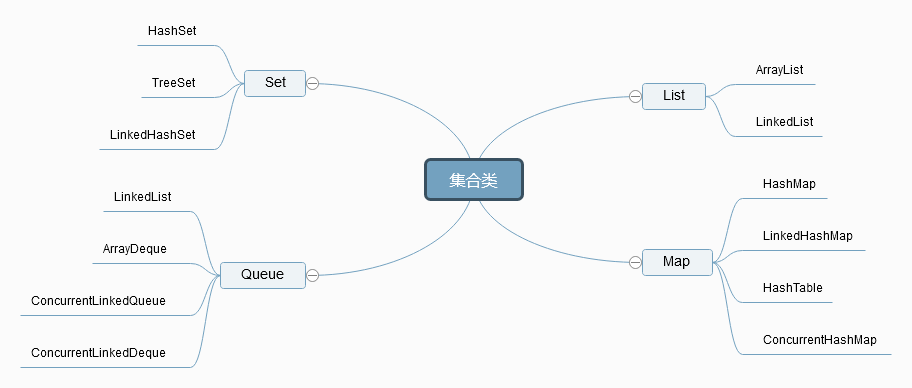
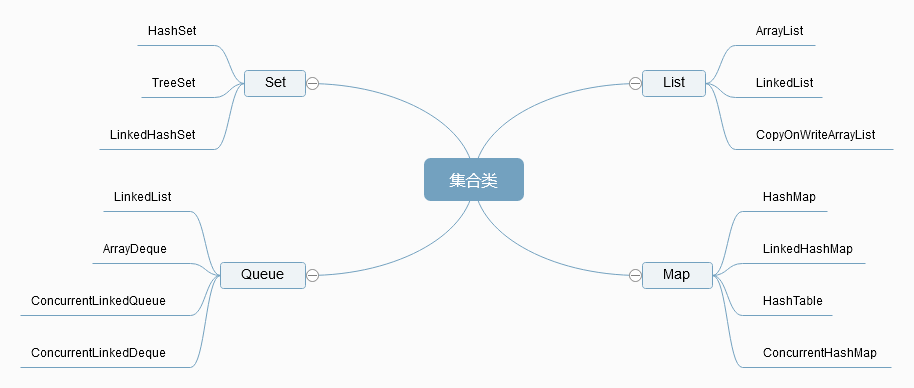
update

diff --git a/Java-Base.md b/Java-Base.md
@@ -128,10 +128,28 @@ AbstractStringBuilder,使用char[] value;存储字符,因此是可变的;
 当然内部类的知识点&特性还有很多,详情查阅Thinking in Java.    
 
 - 集合类  
-![集合类](https://raw.githubusercontent.com/MelloChan/java-interview/master/image/集合类.png)
+![集合类](https://raw.githubusercontent.com/MelloChan/java-interview/master/image/%E9%9B%86%E5%90%88%E7%B1%BB.png)
+
+List:实现该接口的常用类为ArrayList & LinkedList.   
+前者底层结构为(可动态改变大小)数组,默认容量10,扩充时增大到原先的1.5倍.适合频繁取值以及尾部插入或删除的场景;
+而后者底层结构为双向链表(同时也实现了队列接口),增删快,但查询或修改值时较慢(需要遍历).因此更适合频繁从中间插入或删除的场景.  
+
+Set:常用类为HashSet & TreeSet & LinkedHashSet.  
+通过查阅源码,HashSet本质上就是个值总为静态常量Object的HashMap,同样TreeSet是按照自然排序的TreeMap,LinkedHashSet则是按照元素添加顺序的HashSet.
+
+Map:常用类为HashMap & LinkedHashMap & HashTable & ConcurrentHashMap.   
+HashMap的底层结构为数组+链表(JDK1.7后,链表长度为8则转为红黑树),其提供键值对(可为null,此时key的hashcode为0)映射,但不保证顺序(包括在扩容时可能的改变),默认大小为16(总是为2的幂次方,目的是减少哈希冲突),负载因子0.75
+(即实质上容量为0.75*16),扩容时为原始容量*2.  
+提供get方法获取值,该方法通过对key进行哈希获取索引,找到数组中的链表值,当链表长度大于2时,遍历链表,通过equals方法来比key获取值;
+put方法为压入键值对,首先会对key进行哈希获得索引,初次使用时才对数组进行内存分配,之后新建一个链表结点(包含hash值,key,value,next)存放指定数组位置.当发生哈希冲突时
+(即key哈希后得到相同的索引),则通过equals比对key,若key相同则覆盖原始值,否则新建结点,插入原始链表的头部(认为新插入的键值总是会更频繁的被访问,避免尾部遍历),当链表长度等于8时将链表转为红黑树(遍历效率问题).  
+扩容:当数组容量超过负载因子*数组大小时,将进行数组扩容,扩容的大小为原始的2倍.在多线程下,会引发死锁问题,这是因为多线程扩容可能引发环形链表.
+
+Queue:
+
+- ArrayList & LinkedList 详解
 
 - HashMap HashTable currentHashMap 联系与区别
-- ArrayList & LinkedList 区别
 - 异常相关
 - 代理机制
 - JDBC

diff --git a/README.md b/README.md
@@ -14,8 +14,8 @@
 - 泛型
 - 内部类
 - 集合类
+- ArrayList & LinkedList 详解
 - HashMap HashTable CurrentHashMap 联系与区别
-- ArrayList & LinkedList 区别
 - 异常相关
 - 代理机制
 - JDBC
@@ -53,6 +53,7 @@
 - 线程通信
 - 线程池
 - 实现男女共浴问题  
+- CountDownLatch CyclicBarrier Semaphore
 - 并发包  
 - 锁优化
 - 无锁机制

diff --git a/Thread-Concurrent.md b/Thread-Concurrent.md
@@ -29,6 +29,7 @@
 - 线程通信
 - 线程池
 - [实现男女共浴问题](https://github.com/MelloChan/java-interview/blob/master/java-exam/src/thread/Bath.java)
+- CountDownLatch CyclicBarrier Semaphore  
 - 并发包  
 - 锁优化
 - 无锁机制
